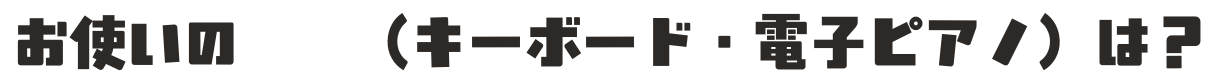
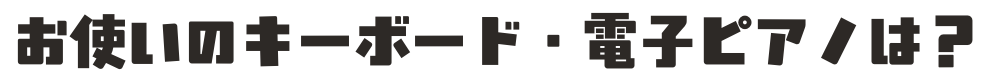
見出しPNGのグリフ欠落を修正（ADS-strongは鍵盤が未収録）・生成前のカバレッジ検査を追加
Claude-Session: https://claude.ai/code/session_01Dxf2KnS8kgt4ZXSGR58WeL

diff --git a/index.html b/index.html
@@ -4,7 +4,7 @@
   <meta charset="UTF-8">
   <meta name="viewport" content="width=device-width, initial-scale=1.0, maximum-scale=1.0">
   <title>機器接続サポート</title>
-  <link rel="stylesheet" href="style.css?v=11">
+  <link rel="stylesheet" href="style.css?v=12">
 </head>
 <body>
   <header>
@@ -83,7 +83,7 @@
 
     <!-- STEP 2: 鍵盤選択 -->
     <section id="step-keyboard" class="step hidden">
-      <h2><span class="step-num">2</span><img class="h-img" src="images/h-step2.png" alt="お使いの鍵盤（キーボード・電子ピアノ）は？"></h2>
+      <h2><span class="step-num">2</span><img class="h-img" src="images/h-step2.png" alt="お使いのキーボード・電子ピアノは？"></h2>
       <p class="hint">メーカーを選んで機種名を検索してください。機種名は本体の右上や背面のシールに書かれています。</p>
       <div class="choices maker-choices" id="maker-choices"></div>
       <div id="model-search-area" class="hidden">
@@ -120,6 +120,6 @@
   </footer>
 
   <script src="https://static.line-scdn.net/liff/edge/2/sdk.js"></script>
-  <script src="app.js?v=11"></script>
+  <script src="app.js?v=12"></script>
 </body>
 </html>
